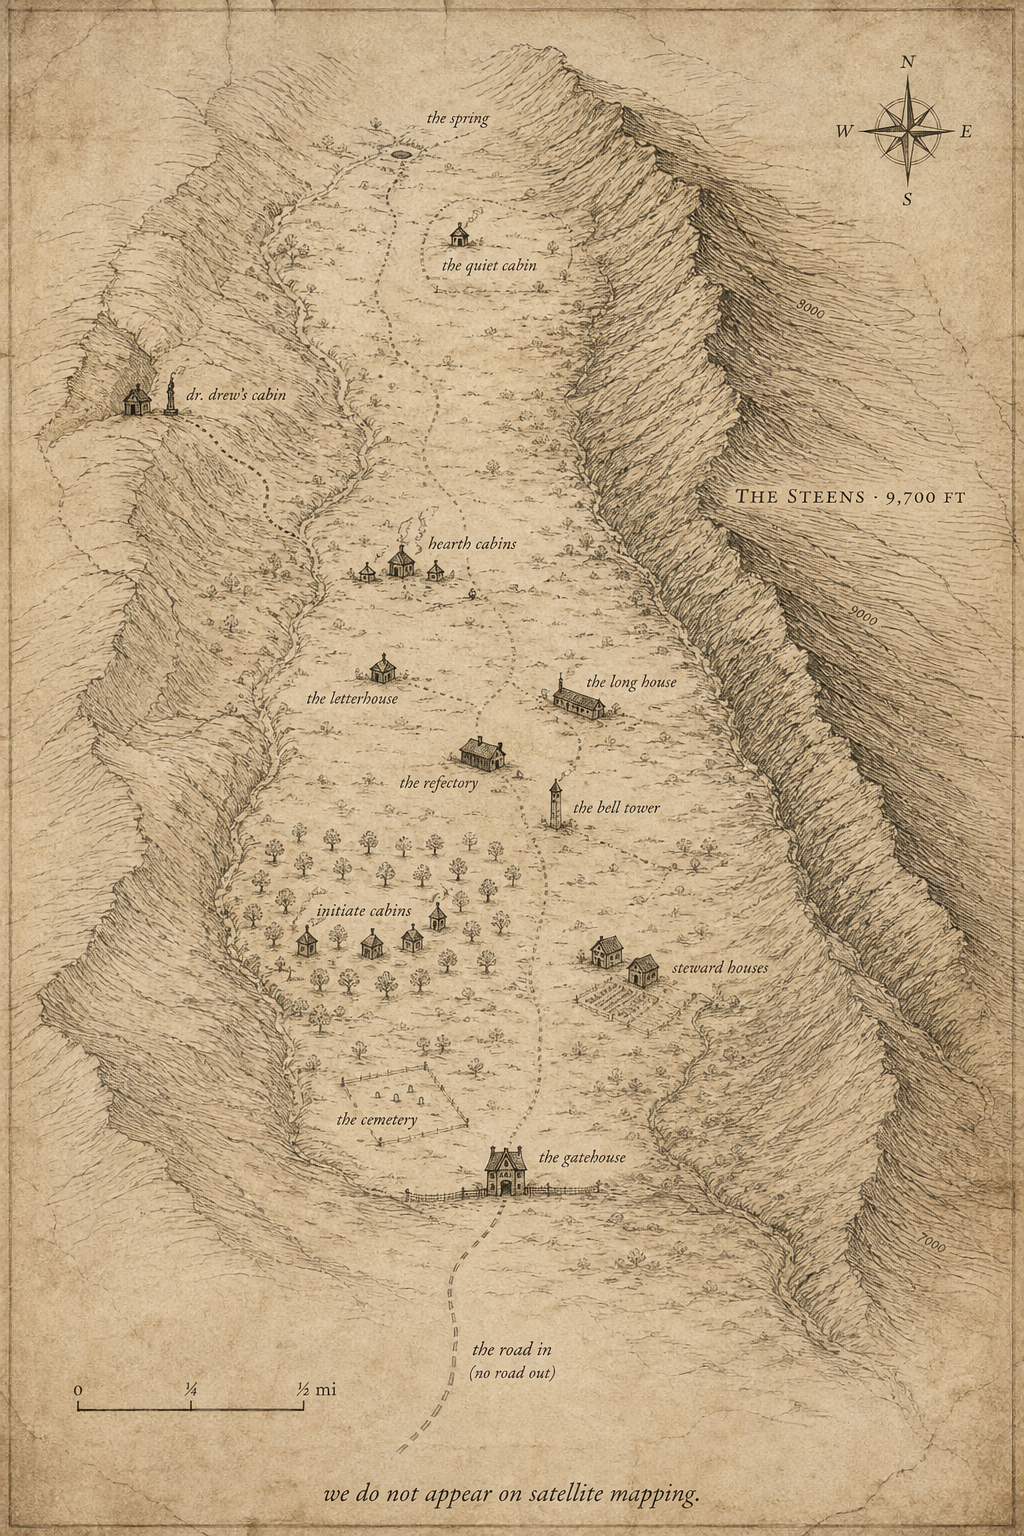
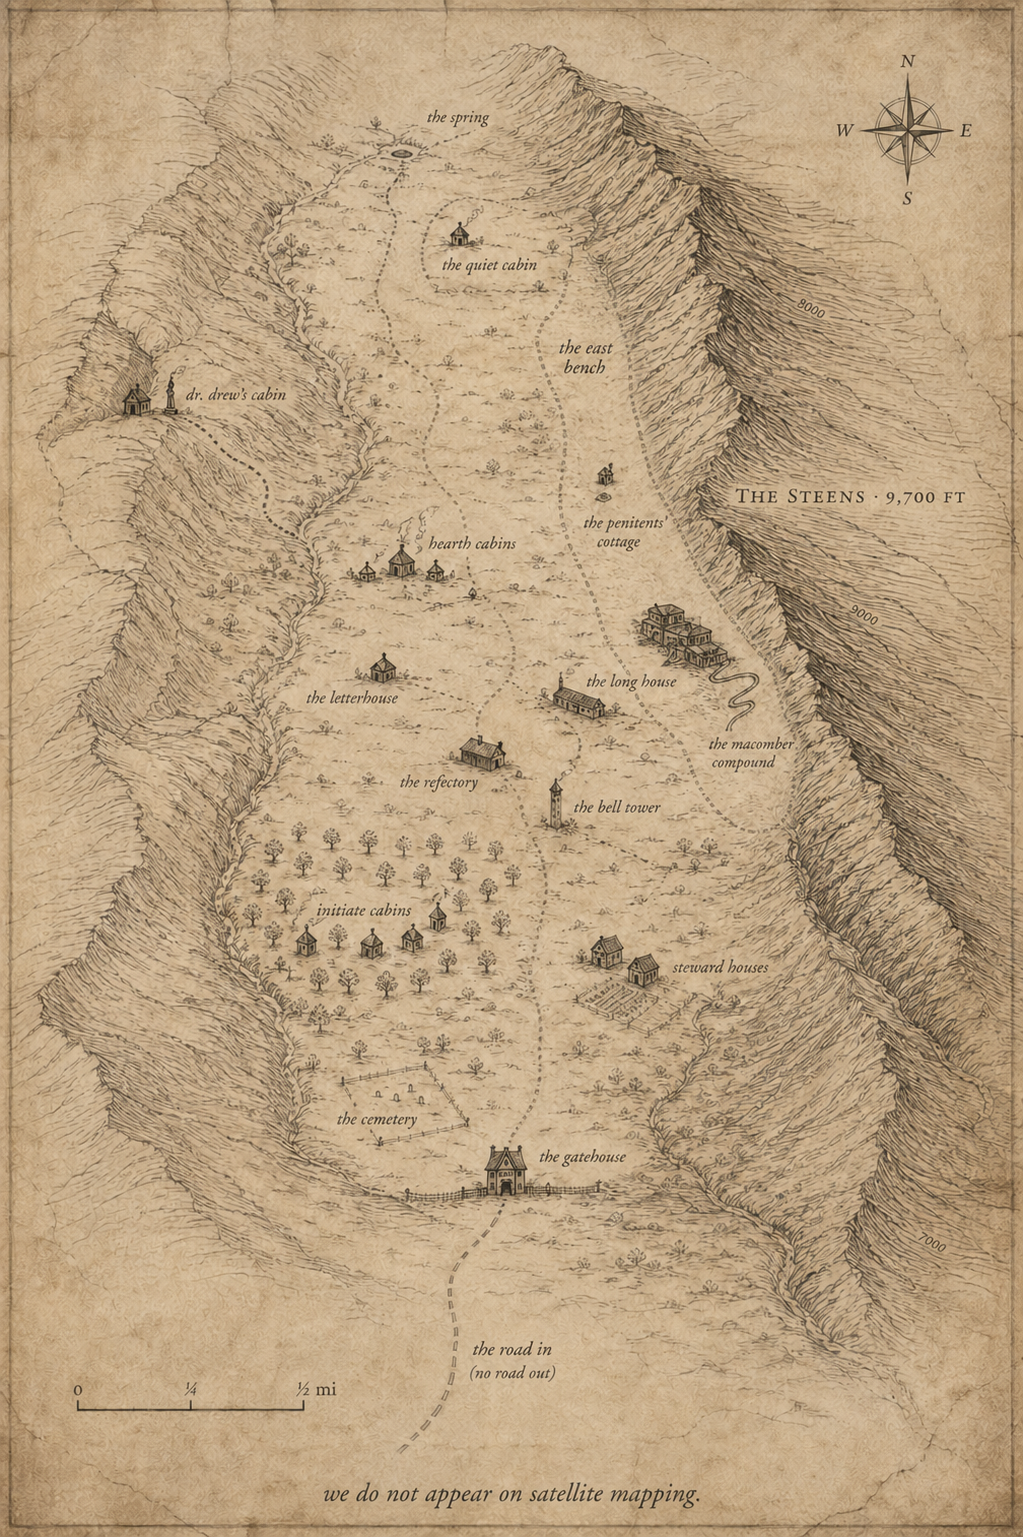
Update map.png with east bench dwellings; fix Drew location refs
The site plan now includes The Penitents' Cottage and The Macomber
Compound clustered on the east bench at the base of the Steens, with
a faint dotted boundary and a floating "the east bench" caption. Drew's
cabin is unchanged on the upper bench near the spring.

Updated the map figcaption and alt text to reflect the expanded scope,
and corrected Dr. Drew's figure caption from the (incorrect) "east
bench" to "the upper bench above the spring," matching where the
parchment map actually shows him.

diff --git a/land.html b/land.html
@@ -67,8 +67,8 @@
 </figure>
 
 <figure class="featured-photo">
-  <img src="assets/map.png" alt="A hand-drawn ink-and-wash site plan of Stillwater Ranch on aged parchment, showing the hanging valley between the Steens and the west ridge with labeled buildings, a compass rose, and a scale bar.">
-  <figcaption>Stillwater Ranch, drawn for the Letterhouse archive. We do not appear on satellite mapping.</figcaption>
+  <img src="assets/map.png" alt="A hand-drawn ink-and-wash site plan of Stillwater Ranch on aged parchment, showing the hanging valley between the Steens and the west ridge with labeled buildings on the valley floor, three additional dwellings clustered along the east bench at the base of the Steens, a compass rose, and a scale bar.">
+  <figcaption>Stillwater Ranch and the East Bench, drawn for the Letterhouse archive. We do not appear on satellite mapping.</figcaption>
 </figure>
 
 <section>
@@ -224,8 +224,8 @@
 </section>
 
 <figure class="featured-photo">
-  <img src="assets/drDrewCabin.png" alt="Dr. Drew's cabin on the east bench at golden hour, with a tall bronze narwhal statue standing on a stone plinth in front, its long spiraled tusk angled toward the sky.">
-  <figcaption>Dr. Drew's cabin, east bench. The bronze narwhal — donated to the Fellowship in the eleventh year, by the doctor himself — has more than once served as a landmark in fog.</figcaption>
+  <img src="assets/drDrewCabin.png" alt="Dr. Drew's cabin on the upper bench above the spring at golden hour, with a tall bronze narwhal statue standing on a stone plinth in front, its long spiraled tusk angled toward the sky.">
+  <figcaption>Dr. Drew's cabin, on the upper bench above the spring. The bronze narwhal — donated to the Fellowship in the eleventh year, by the doctor himself — has more than once served as a landmark in fog.</figcaption>
 </figure>
 
 <figure class="featured-photo">
